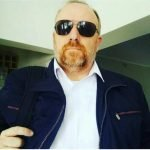
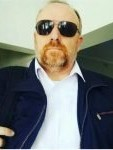
Centrados

diff --git a/components/equipo-content.tsx b/components/equipo-content.tsx
@@ -23,13 +23,15 @@ function MemberCard({ member, index, isInView }: { member: Member, index: number
             transition={{ delay: index * 0.1, duration: 0.5 }}
             className="group relative bg-white rounded-2xl overflow-hidden shadow-lg hover:shadow-xl transition-all duration-500 border border-[#e2e8f0] flex flex-col h-full"
         >
-            <div className="relative h-64 overflow-hidden bg-[#111269]">
+            <div className="relative aspect-[3/4] w-full overflow-hidden bg-[#111269]">
                 <div className="absolute inset-0 bg-gradient-to-br from-[#111269] to-[#89abe6] opacity-80" />
                 {member.image ? (
                     <Image
                         src={member.image}
                         alt={member.name}
                         fill
+                        sizes="(max-width: 768px) 100vw, (max-width: 1024px) 50vw, 25vw"
+                        quality={85}
                         className="object-cover transition-transform duration-700 group-hover:scale-110 opacity-90 group-hover:opacity-100"
                     />
                 ) : (
@@ -298,9 +300,11 @@ export function EquipoContent() {
                         <div className="w-20 h-1 bg-[#8dc2ff] mx-auto rounded-full" />
                     </div>
 
-                    <div className="grid md:grid-cols-2 gap-8 max-w-4xl mx-auto">
+                    <div className="flex flex-wrap justify-center gap-8">
                         {coordinationTeam.map((member, index) => (
-                            <MemberCard key={index} member={member} index={index} isInView={isInView} />
+                            <div key={index} className="w-full md:w-[calc(50%-1rem)] lg:w-[calc(25%-1.5rem)]">
+                                <MemberCard member={member} index={index} isInView={isInView} />
+                            </div>
                         ))}
                     </div>
                 </div>
@@ -340,9 +344,11 @@ export function EquipoContent() {
                         <div className="w-20 h-1 bg-[#8dc2ff] mx-auto rounded-full" />
                     </div>
 
-                    <div className="grid md:grid-cols-2 gap-8 max-w-4xl mx-auto">
+                    <div className="flex flex-wrap justify-center gap-8">
                         {internationalTeam.map((member, index) => (
-                            <MemberCard key={index} member={member} index={index} isInView={isInView} />
+                            <div key={index} className="w-full md:w-[calc(50%-1rem)] lg:w-[calc(25%-1.5rem)]">
+                                <MemberCard member={member} index={index} isInView={isInView} />
+                            </div>
                         ))}
                     </div>
                 </div>
